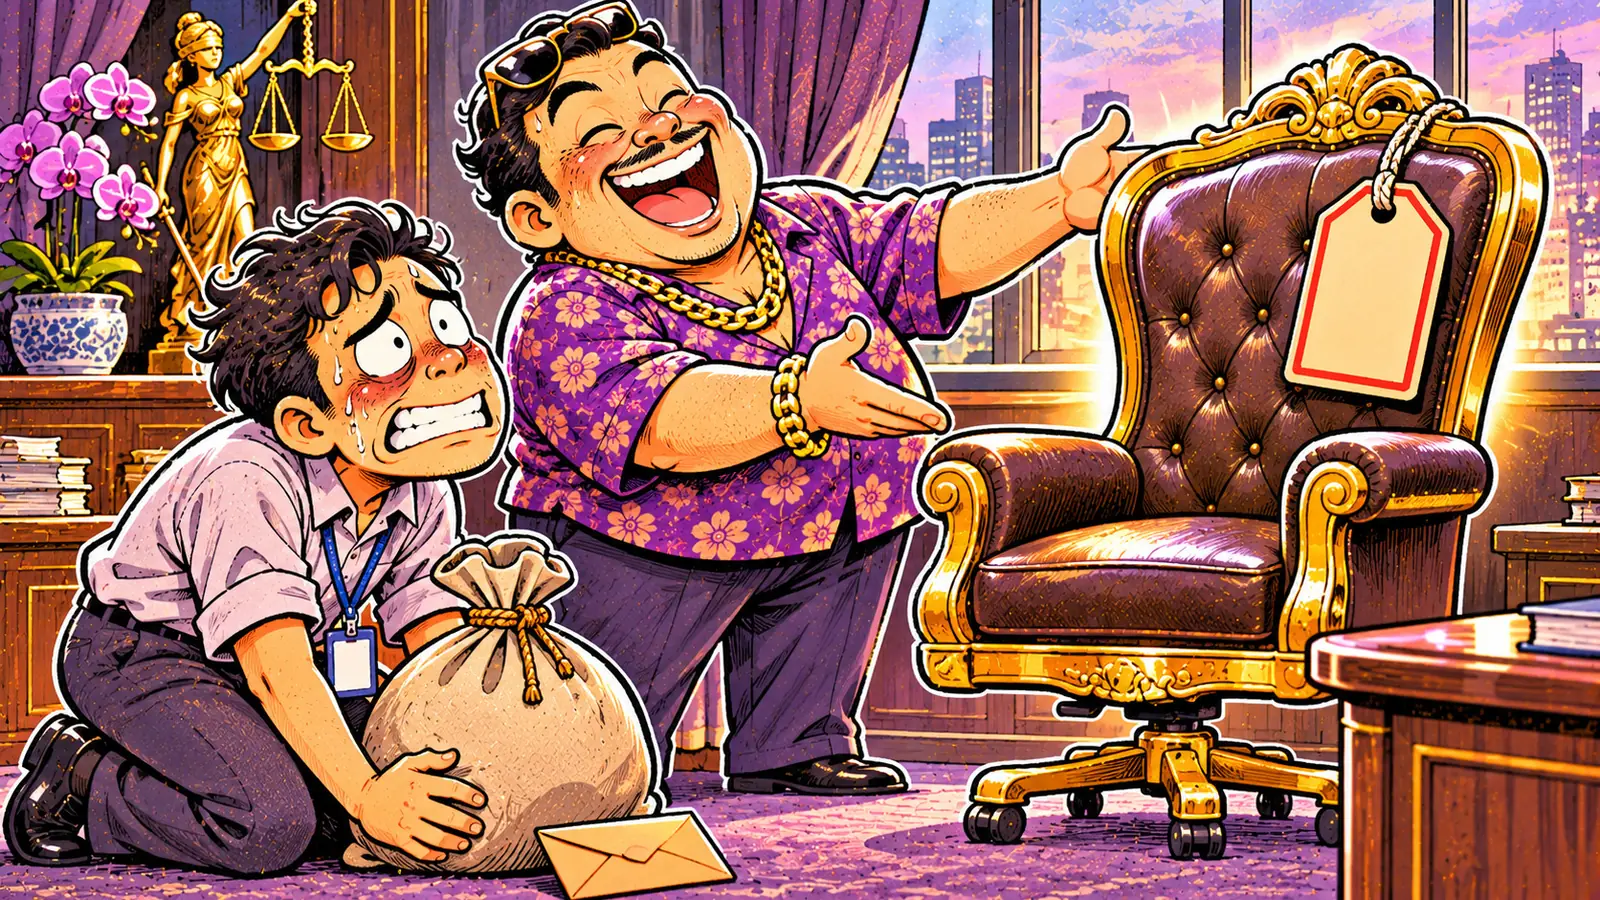
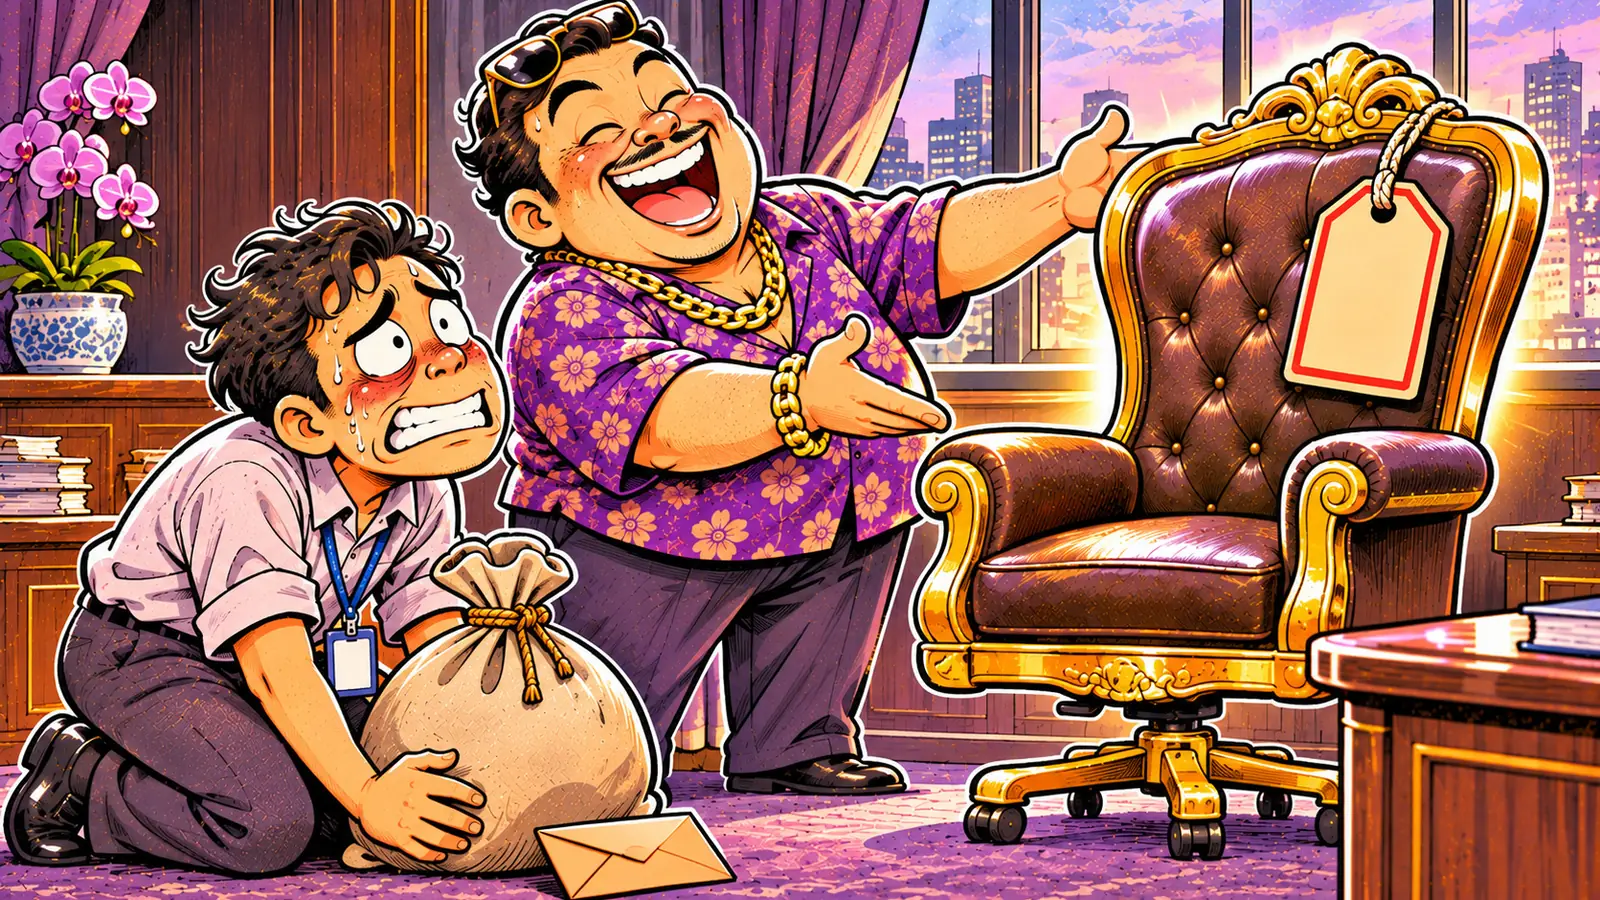
Kalaland art: 12 incidents, 12 echoes, 12 projects and a redrawn K-E13
- assets/art/kala/K-I01..12, K-X01..11 + K-X03b, P01..12 (1600x900 WebP)
- K-E13 replaced with the version without the justice statue
- P05: real national flags on the departures board painted out
- Bump assets to v0.3.7, SW cache lifeceo-v14

Claude-Session: https://claude.ai/code/session_01K3BtkeCamwP77rz1QnrxHx

diff --git a/index.html b/index.html
@@ -14,14 +14,14 @@
   <link rel="preconnect" href="https://fonts.googleapis.com">
   <link rel="preconnect" href="https://fonts.gstatic.com" crossorigin>
   <link href="https://fonts.googleapis.com/css2?family=Chonburi&family=Kanit:wght@500;600;700;800&family=Noto+Sans+Thai:wght@400;500;600;700&display=swap" rel="stylesheet">
-  <link rel="stylesheet" href="src/style.css?v=0.3.6">
+  <link rel="stylesheet" href="src/style.css?v=0.3.7">
 </head>
 <body>
   <div id="app"></div>
   <div id="modal-root"></div>
-  <script src="src/data/cards.js?v=0.3.6"></script>
-  <script src="src/data/mode-kala.js?v=0.3.6"></script>
-  <script src="src/game.js?v=0.3.6"></script>
-  <script src="src/ui.js?v=0.3.6"></script>
+  <script src="src/data/cards.js?v=0.3.7"></script>
+  <script src="src/data/mode-kala.js?v=0.3.7"></script>
+  <script src="src/game.js?v=0.3.7"></script>
+  <script src="src/ui.js?v=0.3.7"></script>
 </body>
 </html>

diff --git a/sw.js b/sw.js
@@ -1,6 +1,6 @@
 // Service worker: ทำให้ติดตั้งเป็นแอปได้ และเปิดเล่นต่อได้ตอนเน็ตหลุด
 // หน้าเว็บดึงจากเน็ตก่อน (ได้เวอร์ชันใหม่เสมอ) ไฟล์อื่นตอบจาก cache แล้วอัปเดตเบื้องหลัง
-const CACHE = 'lifeceo-v13';
+const CACHE = 'lifeceo-v14';
 
 self.addEventListener('install', ev => {
   ev.waitUntil(caches.open(CACHE).then(c => c.addAll(['./', 'manifest.webmanifest', 'assets/icons/icon-192.png'])).then(() => self.skipWaiting()));

diff --git a/docs/image-prompts-kalaland.md b/docs/image-prompts-kalaland.md
@@ -24,18 +24,18 @@
 | `K-C06` ✅ | A | อาชีพ · Influencer สายรีวิว |
 | `K-C07` ✅ | A | อาชีพ · โปรแกรมเมอร์ Outsource |
 | `K-C08` ✅ | A | อาชีพ · ทายาทตระกูลดัง |
-| `P01` | B | Project · ธุรกิจครอบครัว |
-| `P02` | B | Project · ปริญญาโท |
-| `P03` | B | Project · สร้างครอบครัว |
-| `P04` | B | Project · วิ่งมาราธอน |
-| `P05` | B | Project · เที่ยวรอบโลก |
-| `P06` | B | Project · บ้านของตัวเอง |
-| `P07` | B | Project · สตาร์ทอัพ |
-| `P08` | B | Project · อาสาสมัครชุมชน |
-| `P09` | B | Project · เขียนหนังสือ |
-| `P10` | B | Project · อสังหาให้เช่า |
-| `P11` | B | Project · ดูแลพ่อแม่ |
-| `P12` | B | Project · ฝึกสติ |
+| `P01` ✅ | B | Project · ธุรกิจครอบครัว |
+| `P02` ✅ | B | Project · ปริญญาโท |
+| `P03` ✅ | B | Project · สร้างครอบครัว |
+| `P04` ✅ | B | Project · วิ่งมาราธอน |
+| `P05` ✅ | B | Project · เที่ยวรอบโลก |
+| `P06` ✅ | B | Project · บ้านของตัวเอง |
+| `P07` ✅ | B | Project · สตาร์ทอัพ |
+| `P08` ✅ | B | Project · อาสาสมัครชุมชน |
+| `P09` ✅ | B | Project · เขียนหนังสือ |
+| `P10` ✅ | B | Project · อสังหาให้เช่า |
+| `P11` ✅ | B | Project · ดูแลพ่อแม่ |
+| `P12` ✅ | B | Project · ฝึกสติ |
 | `kala-opportunity` | A | การ์ดโอกาส (ใช้ร่วม) |
 | `kala-table` ✅ (พื้นโต๊ะ · `assets/bg/`) | A | พื้นโต๊ะกะลาแลนด์ |
 | `kala-era-1` ✅ | A | ยุค I · เริ่มต้น |
@@ -65,30 +65,30 @@
 | `K-E18` ✅ | B | แอปรัฐรุ่นใหม่ |
 | `K-E19` ✅ | B | มรดกที่ดิน |
 | `K-E20` ✅ | B | ส่งต่อความรู้ |
-| `K-X01` | B | แชร์ล่ม |
-| `K-X02` | A | ชนะแต่ถูกตัดสิทธิ์ |
-| `K-X03` | B | เครือข่ายชนะ |
-| `K-X03b` | A | รัฐบาลเอื้อพวกพ้อง |
-| `K-X04` | B | ทวงบุญคุณ |
-| `K-X05` | A | Influencer ยักยอกเงินบริจาค |
-| `K-X06` | B | โดนสอบเงินทอน |
-| `K-X07` | B | ญาติหนีหนี้ |
-| `K-X08` | A | โดนฟ้องจากโพสต์ |
-| `K-X09` | B | ถูกหวย |
-| `K-X10` | B | รถไฟฟ้าเสร็จ |
-| `K-X11` | B | ผู้มีอิทธิพลเอาคืน |
-| `K-I01` | A | เคราะห์ · เจอด่าน |
-| `K-I02` | A | เคราะห์ · คนเมาขับชนแล้วหนี |
-| `K-I03` | A | เคราะห์ · ซื้อของออนไลน์โดนโกง |
-| `K-I04` | A | เคราะห์ · งบถนนหายระหว่างทาง |
-| `K-I05` | A | เคราะห์ · ม็อบปิดถนน |
-| `K-I06` | A | เคราะห์ · ฝุ่น PM2.5 ทะลุมาตรฐาน |
-| `K-I07` | A | เคราะห์ · งานบวชญาติ |
-| `K-I08` | A | เคราะห์ · งานแต่งเพื่อนร่วมงาน |
-| `K-I09` | A | เคราะห์ · งานศพคนในซอย |
-| `K-I10` | A | เคราะห์ · ไฟดับทั้งเขตตอนส่งงาน |
-| `K-I11` | A | เคราะห์ · แก๊งคอลเซ็นเตอร์โทรมา |
-| `K-I12` | A | เคราะห์ · ค่าไฟขึ้นแบบงงๆ |
+| `K-X01` ✅ | B | แชร์ล่ม |
+| `K-X02` ✅ | A | ชนะแต่ถูกตัดสิทธิ์ |
+| `K-X03` ✅ | B | เครือข่ายชนะ |
+| `K-X03b` ✅ | A | รัฐบาลเอื้อพวกพ้อง |
+| `K-X04` ✅ | B | ทวงบุญคุณ |
+| `K-X05` ✅ | A | Influencer ยักยอกเงินบริจาค |
+| `K-X06` ✅ | B | โดนสอบเงินทอน |
+| `K-X07` ✅ | B | ญาติหนีหนี้ |
+| `K-X08` ✅ | A | โดนฟ้องจากโพสต์ |
+| `K-X09` ✅ | B | ถูกหวย |
+| `K-X10` ✅ | B | รถไฟฟ้าเสร็จ |
+| `K-X11` ✅ | B | ผู้มีอิทธิพลเอาคืน |
+| `K-I01` ✅ | A | เคราะห์ · เจอด่าน |
+| `K-I02` ✅ | A | เคราะห์ · คนเมาขับชนแล้วหนี |
+| `K-I03` ✅ | A | เคราะห์ · ซื้อของออนไลน์โดนโกง |
+| `K-I04` ✅ | A | เคราะห์ · งบถนนหายระหว่างทาง |
+| `K-I05` ✅ | A | เคราะห์ · ม็อบปิดถนน |
+| `K-I06` ✅ | A | เคราะห์ · ฝุ่น PM2.5 ทะลุมาตรฐาน |
+| `K-I07` ✅ | A | เคราะห์ · งานบวชญาติ |
+| `K-I08` ✅ | A | เคราะห์ · งานแต่งเพื่อนร่วมงาน |
+| `K-I09` ✅ | A | เคราะห์ · งานศพคนในซอย |
+| `K-I10` ✅ | A | เคราะห์ · ไฟดับทั้งเขตตอนส่งงาน |
+| `K-I11` ✅ | A | เคราะห์ · แก๊งคอลเซ็นเตอร์โทรมา |
+| `K-I12` ✅ | A | เคราะห์ · ค่าไฟขึ้นแบบงงๆ |
 
 ---
 
